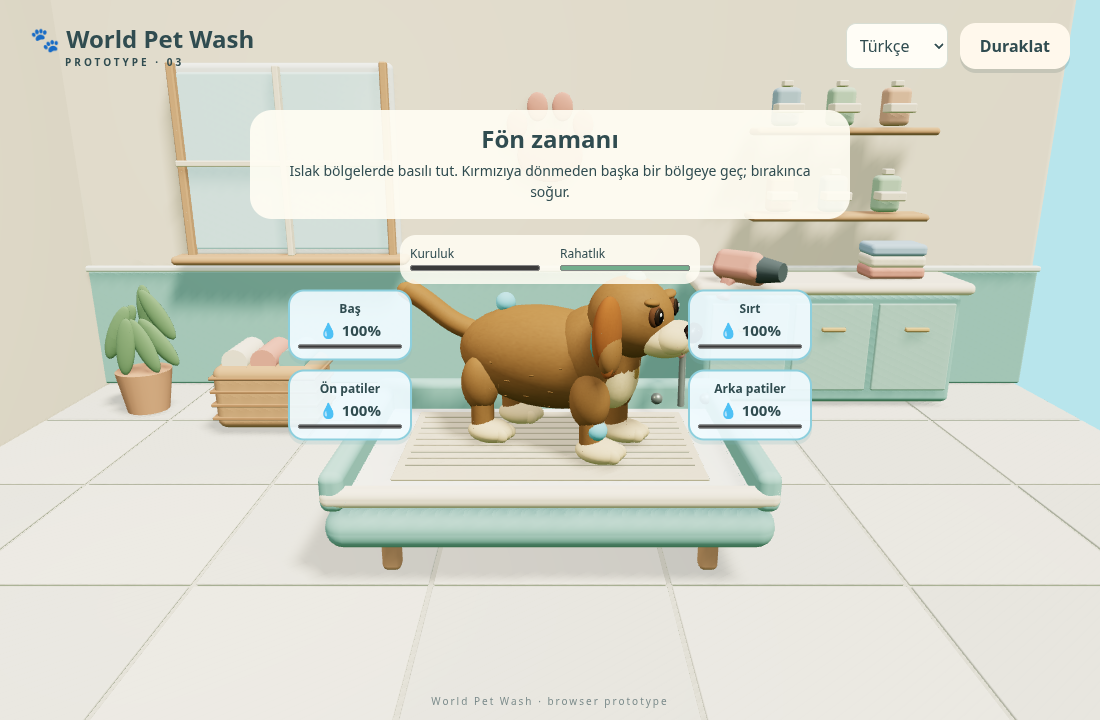
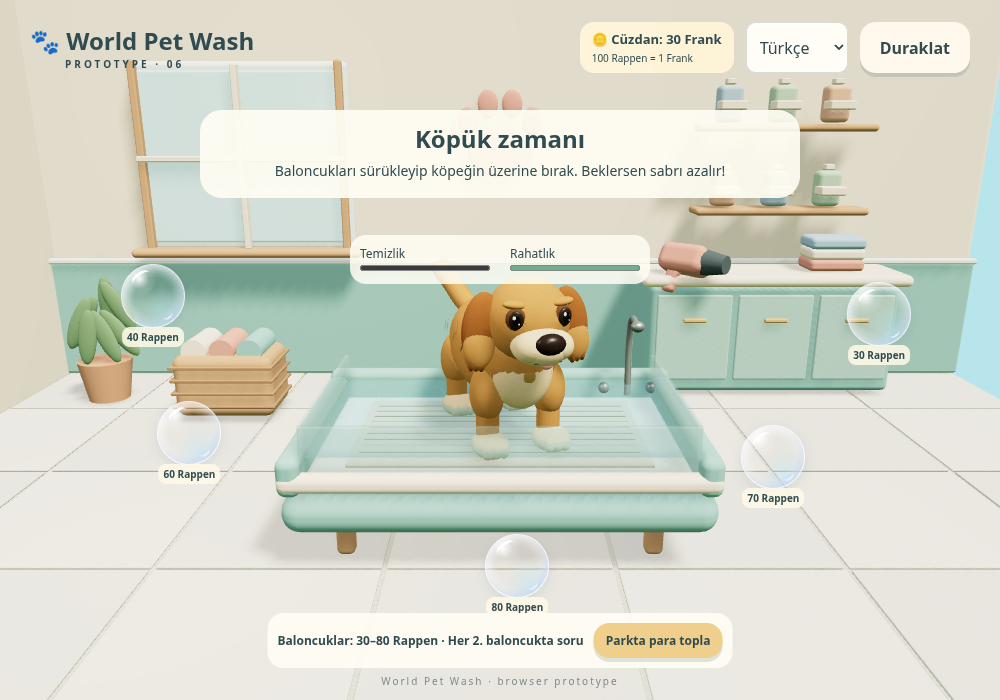
Add shallow wash tank, gentle floating bubbles and textured mud

diff --git a/src/main.js b/src/main.js
@@ -419,6 +419,12 @@ function buyBubble(b){
   if(Math.round(care.clean/12.5)%2===1)openMath(new MoneyQuestion(economy.balance,b.price),'bubble',finish);
   else finish();
 }
+const gentleMotion=matchMedia('(prefers-reduced-motion: reduce)');
+function positionBubble(b){
+  const drift=gentleMotion.matches?0:1;
+  b.el.style.left=(b.x+Math.sin(elapsed*.38+b.slot*1.7)*3*drift)+'%';
+  b.el.style.top=(b.y+Math.sin(elapsed*.3+b.slot*2.1)*3.5*drift)+'%';
+}
 function addBubble(){
   const slots=[[15,42],[85,42],[20,65],[80,65],[50,78]];
   const slot=slots.findIndex((_,i)=>!bubbles.some(b=>b.slot===i));
@@ -426,9 +432,9 @@ function addBubble(){
   const price=prices[Math.floor(Math.random()*prices.length)];
   const el=document.createElement('button');el.className='bubble';
   el.setAttribute('aria-label',`${t('wash')} · ${money(price)}`);
-  el.innerHTML=`◌<small>${money(price)}</small>`;
+  el.innerHTML=`<span class="soap-glint" aria-hidden="true"></span><small>${money(price)}</small>`;
   const b={el,slot,price,x:slots[slot][0],y:slots[slot][1]};
-  const resetPosition=()=>{el.style.left=b.x+'%';el.style.top=b.y+'%';};
+  const resetPosition=()=>positionBubble(b);
   resetPosition();layer.append(el);bubbles.push(b);
   el.addEventListener('pointerdown',e=>{if(paused||mathTask)return;el.setPointerCapture(e.pointerId);selectedBubble=b;});
   el.addEventListener('pointermove',e=>{if(selectedBubble!==b||paused||stage!=='wash')return;el.style.left=e.clientX+'px';el.style.top=e.clientY+'px';});
@@ -440,8 +446,9 @@ function addBubble(){
     if(Math.hypot(e.clientX-x,e.clientY-y)<Math.min(innerWidth,innerHeight)*.22)buyBubble(b);
   });
   el.addEventListener('pointercancel',()=>{selectedBubble=null;resetPosition();});
+  el.addEventListener('keydown',e=>{if(['Enter',' '].includes(e.key)){e.preventDefault();if(!paused&&!mathTask&&stage==='wash')buyBubble(b);}});
 }
-const clock=new THREE.Clock();function loop(){requestAnimationFrame(loop);const dt=Math.min(clock.getDelta(),.05);if(!paused&&!mathTask){elapsed+=dt;dryerKnockTime=Math.max(0,dryerKnockTime-dt);if(stage==='chase'||stage==='collect'){updateCoins();const forward=(keys.has('w')||keys.has('arrowup')||keys.has('up')?1:0)-(keys.has('s')||keys.has('arrowdown')||keys.has('down')?1:0);const turn=(keys.has('a')||keys.has('arrowleft')||keys.has('left')?1:0)-(keys.has('d')||keys.has('arrowright')||keys.has('right')?1:0);angle+=turn*dt*2.2;player.rotation.y=angle;player.position.x+=Math.sin(angle)*forward*dt*5;player.position.z+=Math.cos(angle)*forward*dt*5;if(player.position.length()>51)player.position.setLength(51);owner.animate(elapsed,forward!==0);const dest=new THREE.Vector3(Math.sin(elapsed*.25)*19,0,Math.cos(elapsed*.25)*19);const dir=dest.sub(dog.position);if(dir.length()>.2){dog.position.addScaledVector(dir.normalize(),dt*2);dog.rotation.y=Math.atan2(dir.x,dir.z);}dog.position.y=Math.sin(elapsed*14)*.035;action.disabled=stage==='collect'?false:player.position.distanceTo(dog.position)>=3;}if(stage==='timing'&&capture)updateCapture(dt);if(stage==='wash'){if(bubbles.some(b=>economy.canPayAmount(b.price)))care.tickWash(dt);updateCareHud();if(care.comfort<=0)escapeCare();}
+const clock=new THREE.Clock();function loop(){requestAnimationFrame(loop);const dt=Math.min(clock.getDelta(),.05);if(!paused&&!mathTask){elapsed+=dt;dryerKnockTime=Math.max(0,dryerKnockTime-dt);if(stage==='chase'||stage==='collect'){updateCoins();const forward=(keys.has('w')||keys.has('arrowup')||keys.has('up')?1:0)-(keys.has('s')||keys.has('arrowdown')||keys.has('down')?1:0);const turn=(keys.has('a')||keys.has('arrowleft')||keys.has('left')?1:0)-(keys.has('d')||keys.has('arrowright')||keys.has('right')?1:0);angle+=turn*dt*2.2;player.rotation.y=angle;player.position.x+=Math.sin(angle)*forward*dt*5;player.position.z+=Math.cos(angle)*forward*dt*5;if(player.position.length()>51)player.position.setLength(51);owner.animate(elapsed,forward!==0);const dest=new THREE.Vector3(Math.sin(elapsed*.25)*19,0,Math.cos(elapsed*.25)*19);const dir=dest.sub(dog.position);if(dir.length()>.2){dog.position.addScaledVector(dir.normalize(),dt*2);dog.rotation.y=Math.atan2(dir.x,dir.z);}dog.position.y=Math.sin(elapsed*14)*.035;action.disabled=stage==='collect'?false:player.position.distanceTo(dog.position)>=3;}if(stage==='timing'&&capture)updateCapture(dt);if(stage==='wash'){if(bubbles.some(b=>economy.canPayAmount(b.price)))care.tickWash(dt*.45);updateCareHud();if(care.comfort<=0)escapeCare();}
 if(stage==='dry'){
   const finished = care.dry(dt,activeZone);
   if(care.dryerRejected)knockDryer();
@@ -450,5 +457,5 @@ if(stage==='dry'){
   else updateCareHud();
 }
 }
-let target,look;if(stage==='chase'||stage==='timing'||stage==='collect'){target=player.position.clone().add(new THREE.Vector3(-Math.sin(angle)*6,4,-Math.cos(angle)*6));look=player.position.clone().add(new THREE.Vector3(Math.sin(angle)*3,1,Math.cos(angle)*3));}else if(['wash','dry','dress','done'].includes(stage)){const compact=innerHeight<600;const dressing=stage==='dress';target=new THREE.Vector3(dressing&&innerWidth>500?2:0,3.6,compact?5.8:7);look=new THREE.Vector3(dressing&&innerWidth>500?2:0,compact?2.5:1.6,0);}else{const portrait=innerWidth<600;target=new THREE.Vector3(portrait?-.8:-1.25,2.05,portrait?5.4:4.4);look=new THREE.Vector3(portrait?-.8:-1.25,1.13,0);dog.position.set(2,0,-.5);player.rotation.y=previewAngle;owner.animate(elapsed,false);}camera.position.lerp(target,1-Math.exp(-dt*6));camera.lookAt(look);positionCatchTarget();if(stage==='dry')updateDryer();const wet=stage==='wash'?care.clean/100:stage==='dry'?1-care.dryness/100:0;if(!paused){puppy.animate(elapsed,{running:stage==='chase'||stage==='collect'||capture?.phase==='miss',wet,comfort:care.comfort,blowing:stage==='dry'&&activeZone!==null,knocking:dryerKnockTime>0});const airTarget=stage==='dry'&&activeZone!==null?dog.localToWorld(zonePoints[activeZone].clone()):null;careRoom.animate(elapsed,{blowing:!!airTarget,target:airTarget,knock:dryerKnockTime});}renderer.render(scene,camera);}
+let target,look;if(stage==='chase'||stage==='timing'||stage==='collect'){target=player.position.clone().add(new THREE.Vector3(-Math.sin(angle)*6,4,-Math.cos(angle)*6));look=player.position.clone().add(new THREE.Vector3(Math.sin(angle)*3,1,Math.cos(angle)*3));}else if(['wash','dry','dress','done'].includes(stage)){const compact=innerHeight<600;const dressing=stage==='dress';target=new THREE.Vector3(dressing&&innerWidth>500?2:0,3.6,compact?5.8:7);look=new THREE.Vector3(dressing&&innerWidth>500?2:0,compact?2.5:1.6,0);}else{const portrait=innerWidth<600;target=new THREE.Vector3(portrait?-.8:-1.25,2.05,portrait?5.4:4.4);look=new THREE.Vector3(portrait?-.8:-1.25,1.13,0);dog.position.set(2,0,-.5);player.rotation.y=previewAngle;owner.animate(elapsed,false);}camera.position.lerp(target,1-Math.exp(-dt*6));camera.lookAt(look);positionCatchTarget();if(stage==='dry')updateDryer();const wet=stage==='wash'?care.clean/100:stage==='dry'?1-care.dryness/100:0;if(!paused){puppy.animate(elapsed,{running:stage==='chase'||stage==='collect'||capture?.phase==='miss',wet,comfort:care.comfort,blowing:stage==='dry'&&activeZone!==null,knocking:dryerKnockTime>0});const airTarget=stage==='dry'&&activeZone!==null?dog.localToWorld(zonePoints[activeZone].clone()):null;careRoom.animate(elapsed,{blowing:!!airTarget,target:airTarget,knock:dryerKnockTime,washing:stage==='wash'});}if(stage==='wash'&&!paused&&!mathTask)for(const b of bubbles)if(b!==selectedBubble)positionBubble(b);renderer.render(scene,camera);}
 camera.position.set(innerWidth<600?-.8:-1.25,2.05,innerWidth<600?5.4:4.4);renderUI();loop();

diff --git a/src/visuals.js b/src/visuals.js
@@ -35,6 +35,17 @@ function furTexture() {
   const texture = new THREE.CanvasTexture(canvas); texture.wrapS = texture.wrapT = THREE.RepeatWrapping;
   texture.repeat.set(3,3); texture.colorSpace = THREE.SRGBColorSpace; return texture;
 }
+function mudTexture(){
+  const canvas=document.createElement('canvas');canvas.width=canvas.height=128;
+  const ctx=canvas.getContext('2d');
+  for(let i=0;i<90;i++){
+    const a=i*2.39996,r=8+(i%11)*3,x=64+Math.cos(a)*r,y=64+Math.sin(a)*r;
+    const gradient=ctx.createRadialGradient(x,y,0,x,y,8+(i%5));
+    gradient.addColorStop(0,i%2?'rgba(83,53,29,.8)':'rgba(137,93,48,.7)');gradient.addColorStop(1,'rgba(107,75,42,0)');
+    ctx.fillStyle=gradient;ctx.fillRect(x-14,y-14,28,28);
+  }
+  const texture=new THREE.CanvasTexture(canvas);texture.colorSpace=THREE.SRGBColorSpace;return texture;
+}
 export function createPuppy() {
   const root = new THREE.Group(); root.name = 'Golden puppy';
   const fur = furTexture();
@@ -92,9 +103,13 @@ export function createPuppy() {
     transform.scale.set(.005,.01,.035);transform.rotation.z=a;transform.updateMatrix();tufts.setMatrixAt(i,transform.matrix);
   }
   tufts.castShadow=true;root.add(tufts);
+  const mud=mudTexture();
+  const mudMaterial=new THREE.MeshStandardMaterial({map:mud,transparent:true,depthWrite:false,roughness:1,alphaTest:.02,bumpMap:mud,bumpScale:.006});
   const dirt=[];
   for(let i=0;i<8;i++) {
-    const patch=oval(root,'#816447',[(i%2?1:-1)*.36,.88+(i%3)*.04,-.55+i*.15],[.024,.095,.135]);
+    const y=.88+(i%3)*.04,z=-.55+i*.15;
+    const x=.42*Math.sqrt(Math.max(.1,1-((z+.05)/.87)**2-((y-.8)/.46)**2))+.006;
+    const patch=oval(root,mudMaterial,[(i%2?1:-1)*x,y,z],[.013,.13,.18]);
     patch.rotation.z=(i%2?1:-1)*.2;dirt.push(patch);
   }
   const dryColor=new THREE.Color('#d7a463'),wetColor=new THREE.Color('#a78151');
@@ -194,6 +209,18 @@ export function createCareRoom() {
     add(root,geometry,surface);
     for(const source of geometries)source.dispose();
   }
+  // Dynamic water is added after static batching and only shown during washing.
+  const waterTank=new THREE.Group();waterTank.name='Wash water tank';root.add(waterTank);
+  const tankGlass=new THREE.MeshPhysicalMaterial({color:'#b8e8e6',transparent:true,opacity:.22,roughness:.15,metalness:0,depthWrite:false,side:THREE.DoubleSide});
+  rounded(waterTank,[3.3,.48,.045],tankGlass,[0,1.02,1.05],.02);
+  for(const x of [-1.63,1.63])rounded(waterTank,[.045,.48,2.1],tankGlass,[x,1.02,0],.02);
+  const waterMaterial=new THREE.MeshPhysicalMaterial({color:'#76c8d9',transparent:true,opacity:.42,roughness:.18,metalness:.08,depthWrite:false,side:THREE.DoubleSide});
+  const water=add(waterTank,new THREE.PlaneGeometry(3.22,2.05),waterMaterial,[0,.97,0]);water.rotation.x=-Math.PI/2;water.castShadow=false;
+  const ripples=[];
+  for(let i=0;i<4;i++){
+    const ripple=add(waterTank,new THREE.RingGeometry(.18,.19,40),new THREE.MeshBasicMaterial({color:'#e2fbff',transparent:true,opacity:.3,depthWrite:false,side:THREE.DoubleSide}),[(i%2?1:-1)*.9,.98,(i<2?1:-1)*.55]);
+    ripple.rotation.x=-Math.PI/2;ripple.castShadow=false;ripples.push(ripple);
+  }
   const dryer=new THREE.Group();root.add(dryer);
   rounded(dryer,[.42,.38,.68],coral,[0,0,0],.12);
   add(dryer,new THREE.CylinderGeometry(.12,.18,.34,16),material('#56666b'),[0,0,.43]).rotation.x=Math.PI/2;
@@ -205,7 +232,9 @@ export function createCareRoom() {
   air.visible=false;
   // This light only runs with the room; no additional shadow map is allocated.
   const warmLight=new THREE.PointLight('#ffe2bd',10,14,2);warmLight.position.set(-3,4,1);root.add(warmLight);
-  function animate(time, {blowing=false,target=null,knock=0}={}) {
+  function animate(time, {blowing=false,target=null,knock=0,washing=false}={}) {
+    waterTank.visible=washing;water.position.y=.97+Math.sin(time*.8)*.008;
+    ripples.forEach((r,i)=>{const p=(time*.16+i*.25)%1;r.scale.setScalar(.7+p*2);r.material.opacity=(1-p)*.25;});
     if(knock>0) {
       const progress=1-knock/1.2;
       dryer.position.set(.8+progress*2.2,1.5+Math.sin(progress*Math.PI)*1.2,.9-progress*2);

diff --git a/src/style.css b/src/style.css
@@ -22,3 +22,4 @@ body[data-stage="dress"] #toast{left:30%;bottom:80px;max-width:45%}
 #math-dialog{width:min(350px,90vw);padding:16px;border-radius:18px}#math-dialog h2{font-size:20px;margin:0 0 10px}#math-dialog p{font-size:13px;margin:8px 0;line-height:1.4}#math-dialog .money-answer{gap:12px;margin:8px 0}#math-dialog .money-answer input{padding:8px;margin:5px 0;font-size:18px}#math-dialog .money-answer legend,#math-dialog label{font-size:12px}#math-dialog button{padding:8px 12px;font-size:13px}#math-dialog #math-form .primary{width:auto;margin:0}#math-feedback:empty{display:none}#math-dialog #math-cancel{margin-top:8px}
 .math-money{display:flex;justify-content:space-between;align-items:center;gap:12px;padding:10px;border-radius:10px;margin:7px 0;background:#edf5ed}.math-money strong{font-size:17px}.price-row{background:#fff0d7}.math-money span{font-size:12px;font-weight:700}#math-dialog.answer-success{outline:3px solid #55a66d;background:#f1fff3}#math-dialog.answer-success #math-feedback{color:#267c40;font-weight:800}#math-dialog.answer-success::after{content:'★ ✦ ★';display:block;text-align:center;color:#4f9e67;font-size:24px;animation:math-spark .55s ease-out}#math-dialog.answer-error{outline:3px solid #d87569;animation:math-shake .3s}#math-dialog.answer-error #math-feedback{color:#ad3c36;font-weight:700}@keyframes math-shake{25%,75%{transform:translateX(-5px)}50%{transform:translateX(5px)}}@keyframes math-spark{from{opacity:0;transform:scale(.5)}to{opacity:1;transform:scale(1.1)}}
 #catch-target{position:fixed;transform:translate(-50%,-50%);width:86px;height:86px;padding:0;border-radius:50%;border:4px solid #efb564;background:#fff6d0bb;font-size:48px;color:#b57938;box-shadow:0 0 0 8px #fff5;touch-action:manipulation;z-index:5}#catch-target::after{content:'';position:absolute;inset:-12px;border:3px solid currentColor;border-radius:50%;transform:scale(var(--ring-scale,1))}#catch-target.ready{color:#257c46;border-color:#63bf83;background:#c7f5d7dd;cursor:crosshair}.catch-success #world{filter:brightness(1.08)}.enter-room #world{animation:room-entry .6s}@keyframes room-entry{from{opacity:.2}to{opacity:1}}@media(prefers-reduced-motion:reduce){#math-dialog.answer-error,#math-dialog.answer-success::after,.enter-room #world{animation:none}}
+.bubble{background:radial-gradient(ellipse at 28% 22%,#fffffff2 0%,#ffffff30 15%,transparent 28%),radial-gradient(ellipse at 70% 82%,#b8e6ff66 0%,transparent 40%),radial-gradient(circle,transparent 43%,#fff5 67%,#edbfff80 78%,#a8e9f080 88%,#ffffffa6 98%);border:1px solid #ffffffb3;box-shadow:inset 2px 3px 7px #ffffff85,inset -3px -4px 7px #a8c4e86b,0 4px 12px #507a9026;cursor:grab}.bubble:active{cursor:grabbing}.soap-glint{position:absolute;left:15%;top:12%;width:32%;height:18%;border-top:3px solid #fffe;border-radius:50%;transform:rotate(-35deg);pointer-events:none}.bubble::after{content:'';position:absolute;right:17%;bottom:13%;width:18%;height:10%;border-bottom:2px solid #ffffff9c;border-radius:50%;transform:rotate(-35deg);pointer-events:none}.bubble:focus-visible{outline:3px solid #308978;outline-offset:4px}

diff --git a/README.md b/README.md
@@ -44,3 +44,5 @@ Soru ekranında cüzdan üstte, ürün fiyatı altta vurgulanır. Yanlış cevap
 Park çapı 108 birimdir. Köpeğe yaklaşınca Yakala/Space zıplamayı başlatır. Çocuk havada dururken köpeğin üzerindeki hedef halkası yeşil olduğunda fareyle tıklayın veya telefonda dokunun (Space de desteklenir). Erken/geç tıklama, hedef dışına basma veya bekleme köpeğin kaçmasına neden olur. Başarılı yakalamada karakter köpeği kucağına alır ve bakım odasına geçer. Duraklatma yakalama süresini de durdurur.
 
 Karakterin güncel sürümü daha doğal baş/gövde oranları, parmaklar, bükülen dirsek ve dizler, göz kapağı hareketi, kumaş/saç/yüz için yerel üretilmiş hafif bump dokuları kullanır. Koşma ve kucaklama pozları eklem gruplarıyla hareket eder. Bu hâlâ prosedürel Three.js modelidir; Blender/GLB varlığı eklenmemiştir. Saç, şapka, ten ve kıyafet seçenekleri korunmuştur.
+
+Washing now takes place in a small shallow water tank with translucent sides and gentle ripples. Floating soap bubbles have reflective highlights and slowly drift in bounded paths; grabbing one holds it under the pointer, and questions/pause freeze movement. Bubble prices and every-second-bubble questions are unchanged. The washing patience countdown runs more slowly for a relaxed pace. Reduced-motion preferences stop bubble drift; focused bubbles can also be applied with Enter/Space. Dirt uses local mottled mud textures with soft transparent edges, and disappears as washing progresses. Water is hidden for drying and dressing.
